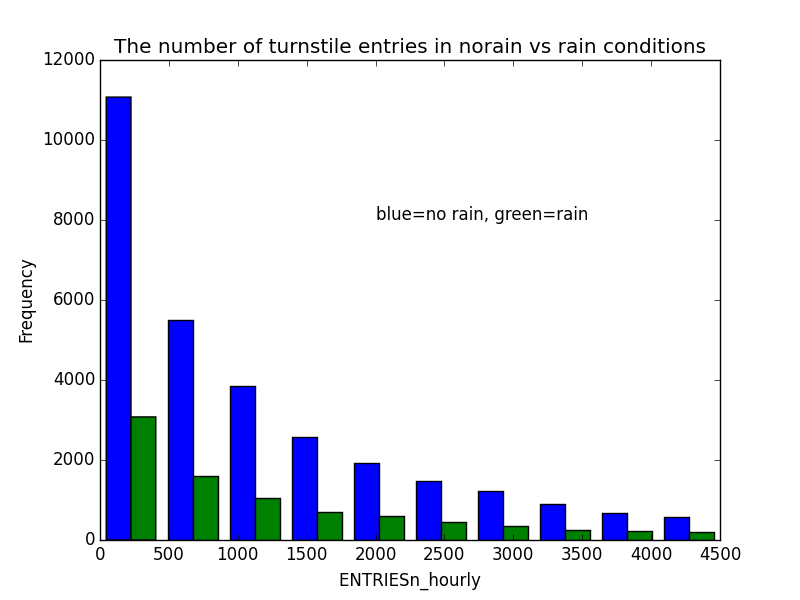
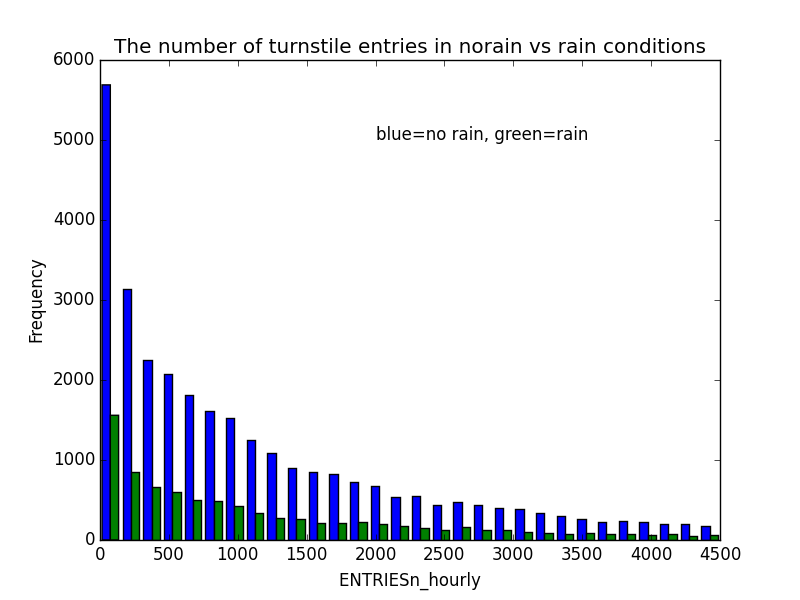
Update p2 files

diff --git a/P2/project2.html b/P2/project2.html
@@ -1,5 +1,5 @@
 <!DOCTYPE html>
-<!-- saved from url=(0078)file:///home/ger/Downloads/Analyzing%20the%20NYC%20Subway%20Dataset%20(3).html -->
+<!-- saved from url=(0085)file:///home/ger/admin/freelance/Courses/dataanalyst/data-analyst-nd/P2/project2.html -->
 <html><head><meta http-equiv="Content-Type" content="text/html; charset=UTF-8">
 
 <meta charset="utf-8">
@@ -146,7 +146,11 @@ div#notebook {
 
 <!-- Loading mathjax macro -->
 <!-- Load mathjax -->
-    <script src="./project2_files/MathJax.js"></script>
+    <script src="./project2_files/MathJax.js"></script><style type="text/css">.MathJax_Preview {color: #888}
+#MathJax_Message {position: fixed; left: 1em; bottom: 1.5em; background-color: #E6E6E6; border: 1px solid #959595; margin: 0px; padding: 2px 8px; z-index: 102; color: black; font-size: 80%; width: auto; white-space: nowrap}
+#MathJax_MSIE_Frame {position: absolute; top: 0; left: 0; width: 0px; z-index: 101; border: 0px; margin: 0px; padding: 0px}
+.MathJax_Error {color: #CC0000; font-style: italic}
+</style>
     <!-- MathJax configuration -->
     <script type="text/x-mathjax-config;executed=true">
     MathJax.Hub.Config({
@@ -248,7 +252,7 @@ div#notebook {
 .MJXc-scale9 {-webkit-transform: scaleX(.9); -moz-transform: scaleX(.9); -ms-transform: scaleX(.9); -o-transform: scaleX(.9); transform: scaleX(.9)}
 .MathJax_CHTML .noError {vertical-align: ; font-size: 90%; text-align: left; color: black; padding: 1px 3px; border: 1px solid}
 </style></head>
-<body><div id="MathJax_Message" style="display: none;"></div>
+<body><div id="MathJax_Message" style="display: none;"></div><div id="MathJax_Message" style="display: none;"></div>
   <div tabindex="-1" id="notebook" class="border-box-sizing">
     <div class="container" id="notebook-container">
 
@@ -257,16 +261,16 @@ div#notebook {
 </div>
 <div class="inner_cell">
 <div class="text_cell_render border-box-sizing rendered_html">
-<h2 id="Background-Information">Background Information<a class="anchor-link" href="file:///home/ger/Downloads/Analyzing%20the%20NYC%20Subway%20Dataset%20(3).html#Background-Information">¶</a></h2><p>In this project, we look at the NYC Subway data and figure out if more people ride the subway when it is raining versus when it is not raining.
+<h1 id="Analyzing-the-NYC-Subway-Dataset">Analyzing the NYC Subway Dataset<a class="anchor-link" href="file:///home/ger/Downloads/Analyzing%20the%20NYC%20Subway%20Dataset%20(4).html#Analyzing-the-NYC-Subway-Dataset">¶</a></h1><h2 id="Background-Information">Background Information<a class="anchor-link" href="file:///home/ger/Downloads/Analyzing%20the%20NYC%20Subway%20Dataset%20(4).html#Background-Information">¶</a></h2><p>In this project, we look at the NYC Subway data and figure out if more people ride the subway when it is raining versus when it is not raining.
 The dataset that is available contains data about turnstiles at different stations as well as weather conditions.</p>
-<h2 id="Statistical-Test">Statistical Test<a class="anchor-link" href="file:///home/ger/Downloads/Analyzing%20the%20NYC%20Subway%20Dataset%20(3).html#Statistical-Test">¶</a></h2><h3 id="Independent,-dependent-variables">Independent, dependent variables<a class="anchor-link" href="file:///home/ger/Downloads/Analyzing%20the%20NYC%20Subway%20Dataset%20(3).html#Independent,-dependent-variables">¶</a></h3><p>First, let's see what kind of data is in the dataset by exploring the column names.</p>
+<h2 id="Statistical-Test">Statistical Test<a class="anchor-link" href="file:///home/ger/Downloads/Analyzing%20the%20NYC%20Subway%20Dataset%20(4).html#Statistical-Test">¶</a></h2><h3 id="Independent,-dependent-variables">Independent, dependent variables<a class="anchor-link" href="file:///home/ger/Downloads/Analyzing%20the%20NYC%20Subway%20Dataset%20(4).html#Independent,-dependent-variables">¶</a></h3><p>First, let's see what kind of data is in the dataset by exploring the column names.</p>
 
 </div>
 </div>
 </div>
 <div class="cell border-box-sizing code_cell rendered">
 <div class="input">
-<div class="prompt input_prompt">In&nbsp;[1]:</div>
+<div class="prompt input_prompt">In&nbsp;[2]:</div>
 <div class="inner_cell">
     <div class="input_area">
 <div class=" highlight hl-ipython2"><pre><span class="kn">import</span> <span class="nn">pandas</span> <span class="kn">as</span> <span class="nn">pd</span>
@@ -303,27 +307,28 @@ The dataset that is available contains data about turnstiles at different statio
 How to measure if the subway is used more? Well, the data contains the number of entries at some units where a unit is a data collector of multiple turnstiles. ENTRIESn is the reading of cummulative turnstile entries from the remote unit and ENTRIESn_hourly indicates the difference in ENTRIES from the previous REGULAR reading. It seems like ENTRIESn_hourly is a good measure of how many people will use the subway.</p>
 <p>Therefore, the independent variable is the rain. It can either be a 0 (no rain) or 1 (rain)
 The dependent variable is the the number of entries since the last reading (ENTRIESn_hourly)</p>
-<h3 id="Hypothesis-and-chosen-test">Hypothesis and chosen test<a class="anchor-link" href="file:///home/ger/Downloads/Analyzing%20the%20NYC%20Subway%20Dataset%20(3).html#Hypothesis-and-chosen-test">¶</a></h3><p>The data that is provided is a sample. With the hypothesis tests we want to explore if we can conclude that the subway is used more when it is raining. 
+<h3 id="Hypothesis-and-chosen-test">Hypothesis and chosen test<a class="anchor-link" href="file:///home/ger/Downloads/Analyzing%20the%20NYC%20Subway%20Dataset%20(4).html#Hypothesis-and-chosen-test">¶</a></h3><p>The data that is provided is a sample. With the hypothesis tests we want to explore if we can conclude that the subway is used more when it is raining. 
 Let μR and μN respectively be the population means for ENTRIESn_hourly when it is not raining and when it is raining. Let H0 and Ha respectively be the 0 and alternative hypothesis. The hypotheses can be written as:</p>
 <p>H0 : μR = μN</p>
 <p>Ha : μR &gt; μN</p>
 <p>When comparing means of populations, multiple tests can be used. A t-test or z-test can be used if the data is assumed to be normally distributed. 
 However, the data from our sample is not normally distributed if we look at the plot below. Mann–Whitney´s U test is a nonparametrict test that can be used if we don't assume that the data follows a certain distribution. Because we don´ t assume any underlying distribution this test will be used. The test will be one tailed, because it is only interesting to know if <strong>more</strong> people use the subway when it is raining. The p critical value is 0.05, since this is quite common.</p>
-<p><img src="plots/histogram_rain_norain.png" alt="Histogram of rain vs norain values"></p>
-<h3 id="Results-from-executing-the-test">Results from executing the test<a class="anchor-link" href="file:///home/ger/Downloads/Analyzing%20the%20NYC%20Subway%20Dataset%20(3).html#Results-from-executing-the-test">¶</a></h3><p>Below the results from the test can be found.</p>
+<p><img src="./project2_files/histogram_rain_norain.png" alt="Histogram of rain vs norain values"></p>
+<h3 id="Results-from-executing-the-test">Results from executing the test<a class="anchor-link" href="file:///home/ger/Downloads/Analyzing%20the%20NYC%20Subway%20Dataset%20(4).html#Results-from-executing-the-test">¶</a></h3><p>Below the results from the test can be found.</p>
 
 </div>
 </div>
 </div>
 <div class="cell border-box-sizing code_cell rendered">
 <div class="input">
-<div class="prompt input_prompt">In&nbsp;[2]:</div>
+<div class="prompt input_prompt">In&nbsp;[13]:</div>
 <div class="inner_cell">
     <div class="input_area">
 <div class=" highlight hl-ipython2"><pre><span class="kn">import</span> <span class="nn">numpy</span> <span class="kn">as</span> <span class="nn">np</span>
 <span class="kn">import</span> <span class="nn">scipy.stats</span>
 <span class="n">rain</span> <span class="o">=</span> <span class="n">turnstile_weather</span><span class="p">[</span><span class="s">'ENTRIESn_hourly'</span><span class="p">][</span><span class="n">turnstile_weather</span><span class="p">[</span><span class="s">'rain'</span><span class="p">]</span> <span class="o">==</span> <span class="mi">1</span><span class="p">]</span>
 <span class="n">norain</span> <span class="o">=</span> <span class="n">turnstile_weather</span><span class="p">[</span><span class="s">'ENTRIESn_hourly'</span><span class="p">][</span><span class="n">turnstile_weather</span><span class="p">[</span><span class="s">'rain'</span><span class="p">]</span> <span class="o">==</span> <span class="mi">0</span><span class="p">]</span>
+<span class="k">print</span> <span class="s">"length norain df vs rain df:"</span><span class="p">,</span> <span class="nb">len</span><span class="p">(</span><span class="n">norain</span><span class="p">),</span> <span class="nb">len</span><span class="p">(</span><span class="n">rain</span><span class="p">)</span>
 <span class="k">print</span> <span class="s">"Norain mean + std:"</span><span class="p">,</span> <span class="n">np</span><span class="o">.</span><span class="n">mean</span><span class="p">(</span><span class="n">norain</span><span class="p">),</span> <span class="n">np</span><span class="o">.</span><span class="n">std</span><span class="p">(</span><span class="n">norain</span><span class="p">)</span>
 <span class="k">print</span> <span class="s">"Rain mean + std:"</span><span class="p">,</span> <span class="n">np</span><span class="o">.</span><span class="n">mean</span><span class="p">(</span><span class="n">rain</span><span class="p">),</span> <span class="n">np</span><span class="o">.</span><span class="n">std</span><span class="p">(</span><span class="n">rain</span><span class="p">)</span>
 <span class="n">U</span><span class="p">,</span> <span class="n">p</span> <span class="o">=</span> <span class="n">scipy</span><span class="o">.</span><span class="n">stats</span><span class="o">.</span><span class="n">mannwhitneyu</span><span class="p">(</span><span class="n">rain</span><span class="p">,</span> <span class="n">norain</span><span class="p">)</span>
@@ -341,7 +346,8 @@ However, the data from our sample is not normally distributed if we look at the 
 
 <div class="output_area"><div class="prompt"></div>
 <div class="output_subarea output_stream output_stdout output_text">
-<pre>Norain mean + std: 1845.53943866 2878.72731433
+<pre>length norain df vs rain df: 33064 9585
+Norain mean + std: 1845.53943866 2878.72731433
 Rain mean + std: 2028.19603547 3189.26699226
 U-statistic: 153635120.5
 p-value: 2.74106957124e-06
@@ -359,27 +365,25 @@ p-value: 2.74106957124e-06
 <div class="inner_cell">
 <div class="text_cell_render border-box-sizing rendered_html">
 <p>The mannwhitney u test is per default one-tailed.  As can be seen, the p-value is a lot smaller than the p critical value of 0.05. Therefore it is very unlikely that the population means are equal, so the alternative hypothesis applies: more people ride the subway when it is raining.</p>
-<h2 id="Linear-Regression">Linear Regression<a class="anchor-link" href="file:///home/ger/Downloads/Analyzing%20the%20NYC%20Subway%20Dataset%20(3).html#Linear-Regression">¶</a></h2><p>Machine learning is a branch of artificial intelligence focused on constructing systems that learn from large amounts of data to make predictions.
+<h2 id="Linear-Regression">Linear Regression<a class="anchor-link" href="file:///home/ger/Downloads/Analyzing%20the%20NYC%20Subway%20Dataset%20(4).html#Linear-Regression">¶</a></h2><p>Machine learning is a branch of artificial intelligence focused on constructing systems that learn from large amounts of data to make predictions.
 Linear Regression is one of the most used models in machine learning.</p>
-<h3 id="Regression-model">Regression model<a class="anchor-link" href="file:///home/ger/Downloads/Analyzing%20the%20NYC%20Subway%20Dataset%20(3).html#Regression-model">¶</a></h3><p>To create a lineair regression model I will use the Ordinary Least Squares (OLS) from Statsmodels.</p>
-<p>2.2 What features (input variables) did you use in your model? Did you use any dummy variables as part of your features?</p>
-<h3 id="Features">Features<a class="anchor-link" href="file:///home/ger/Downloads/Analyzing%20the%20NYC%20Subway%20Dataset%20(3).html#Features">¶</a></h3><p>I have used the following features in the regression model</p>
+<h3 id="Regression-model">Regression model<a class="anchor-link" href="file:///home/ger/Downloads/Analyzing%20the%20NYC%20Subway%20Dataset%20(4).html#Regression-model">¶</a></h3><p>To create a lineair regression model I will use the Ordinary Least Squares (OLS) from Statsmodels.</p>
+<h3 id="Features">Features<a class="anchor-link" href="file:///home/ger/Downloads/Analyzing%20the%20NYC%20Subway%20Dataset%20(4).html#Features">¶</a></h3><p>I have used the following features in the regression model</p>
 <ul>
-<li>rain: because in the statistical test, it is clear that rain matters</li>
-<li>hour: because there are probably more people taking the subway in peak hours</li>
-<li>meantempi: because there are probably less travelers when it is very cold or hot</li>
-<li>fog: </li>
-<li>weekday</li>
+<li>rain: because in the statistical test, it is clear that rain matters.</li>
+<li>hour: because there are probably more people taking the subway in peak hours.</li>
+<li>meantempi: because there are probably less travelers when it is very cold or hot.</li>
+<li>weekday: because I think some days are more populair to work than others.</li>
 <li>UNIT (dummy variable): because when I used this, it drastically improved my R2 value.</li>
 </ul>
-<h3 id="Parameters-of-non-dummy-features-and-R-squared">Parameters of non-dummy features and R-squared<a class="anchor-link" href="file:///home/ger/Downloads/Analyzing%20the%20NYC%20Subway%20Dataset%20(3).html#Parameters-of-non-dummy-features-and-R-squared">¶</a></h3><p>2.5 What is your model’s R2 (coefficients of determination) value?</p>
+<h3 id="Parameters-of-non-dummy-features-and-R-squared">Parameters of non-dummy features and R-squared<a class="anchor-link" href="file:///home/ger/Downloads/Analyzing%20the%20NYC%20Subway%20Dataset%20(4).html#Parameters-of-non-dummy-features-and-R-squared">¶</a></h3><p>below the parameters of the non-dummy features and R-squared are shown</p>
 
 </div>
 </div>
 </div>
 <div class="cell border-box-sizing code_cell rendered">
 <div class="input">
-<div class="prompt input_prompt">In&nbsp;[4]:</div>
+<div class="prompt input_prompt">In&nbsp;[11]:</div>
 <div class="inner_cell">
     <div class="input_area">
 <div class=" highlight hl-ipython2"><pre><span class="kn">import</span> <span class="nn">matplotlib.pyplot</span> <span class="kn">as</span> <span class="nn">plt</span>
@@ -416,6 +420,10 @@ Linear Regression is one of the most used models in machine learning.</p>
 <span class="n">values</span> <span class="o">=</span> <span class="n">turnstile_weather</span><span class="p">[</span><span class="s">'ENTRIESn_hourly'</span><span class="p">]</span>
 <span class="n">intercept</span><span class="p">,</span> <span class="n">params</span> <span class="o">=</span> <span class="n">linear_regression</span><span class="p">(</span><span class="n">features</span><span class="p">,</span> <span class="n">values</span><span class="p">)</span>
 <span class="n">predictions</span> <span class="o">=</span> <span class="n">intercept</span> <span class="o">+</span> <span class="n">np</span><span class="o">.</span><span class="n">dot</span><span class="p">(</span><span class="n">features</span><span class="p">,</span> <span class="n">params</span><span class="p">)</span>
+<span class="k">print</span> <span class="s">"param-rain"</span><span class="p">,</span> <span class="n">params</span><span class="p">[</span><span class="s">'rain'</span><span class="p">]</span>
+<span class="k">print</span> <span class="s">"param-hour"</span><span class="p">,</span> <span class="n">params</span><span class="p">[</span><span class="s">'hour'</span><span class="p">]</span>
+<span class="k">print</span> <span class="s">"param-meantempi"</span><span class="p">,</span> <span class="n">params</span><span class="p">[</span><span class="s">'meantempi'</span><span class="p">]</span>
+<span class="k">print</span> <span class="s">"param-weekday"</span><span class="p">,</span> <span class="n">params</span><span class="p">[</span><span class="s">'weekday'</span><span class="p">]</span>
 <span class="k">print</span> <span class="s">"r-squared:"</span><span class="p">,</span> <span class="n">compute_r_squared</span><span class="p">(</span><span class="n">values</span><span class="p">,</span> <span class="n">predictions</span><span class="p">)</span>
 </pre></div>
 
@@ -429,7 +437,11 @@ Linear Regression is one of the most used models in machine learning.</p>
 
 <div class="output_area"><div class="prompt"></div>
 <div class="output_subarea output_stream output_stdout output_text">
-<pre> r-squared: 0.482340215273
+<pre>param-rain -38.034135646
+param-hour 123.403811602
+param-meantempi -13.8580644847
+param-weekday 982.860016244
+r-squared: 0.482340215273
 </pre>
 </div>
 </div>
@@ -443,8 +455,27 @@ Linear Regression is one of the most used models in machine learning.</p>
 </div>
 <div class="inner_cell">
 <div class="text_cell_render border-box-sizing rendered_html">
-<p>2.6 What does this R2 value mean for the goodness of fit for your regression model? Do you think this linear model to predict ridership is appropriate for this dataset, given this R2  value?</p>
-<h2 id="Visualization">Visualization<a class="anchor-link" href="file:///home/ger/Downloads/Analyzing%20the%20NYC%20Subway%20Dataset%20(3).html#Visualization">¶</a></h2><h2 id="Conclusion">Conclusion<a class="anchor-link" href="file:///home/ger/Downloads/Analyzing%20the%20NYC%20Subway%20Dataset%20(3).html#Conclusion">¶</a></h2><h2 id="Reflection">Reflection<a class="anchor-link" href="file:///home/ger/Downloads/Analyzing%20the%20NYC%20Subway%20Dataset%20(3).html#Reflection">¶</a></h2>
+<p>The R2 value is about 0.48, so what does this mean? R2 is a measure of how well the data fits the regression model. The value of R2 is 1 for a perfect fit and 0 when there is no fit, so in this case the fit is reasonable.</p>
+<h2 id="Visualization">Visualization<a class="anchor-link" href="file:///home/ger/Downloads/Analyzing%20the%20NYC%20Subway%20Dataset%20(4).html#Visualization">¶</a></h2><p>Below a visualization can be found about the ridership by time of day. On the x-axis the hour is give and on the y-axis the number of entries.</p>
+<p><img src="./project2_files/number_of_entries_per_hour.png" alt="Histogram of rain vs norain values"></p>
+
+</div>
+</div>
+</div>
+<div class="cell border-box-sizing text_cell rendered">
+<div class="prompt input_prompt">
+</div>
+<div class="inner_cell">
+<div class="text_cell_render border-box-sizing rendered_html">
+<h2 id="Conclusion">Conclusion<a class="anchor-link" href="file:///home/ger/Downloads/Analyzing%20the%20NYC%20Subway%20Dataset%20(4).html#Conclusion">¶</a></h2><h4 id="Do-more-people-ride-the-NYC-subway-when-it-is-raining-or-when-it-is-not-raining?">Do more people ride the NYC subway when it is raining or when it is not raining?<a class="anchor-link" href="file:///home/ger/Downloads/Analyzing%20the%20NYC%20Subway%20Dataset%20(4).html#Do-more-people-ride-the-NYC-subway-when-it-is-raining-or-when-it-is-not-raining?">¶</a></h4><p>From the results obtained from the statistical test and lineair regression, we can say in general that more people ride the NYC subway when it is raining. However, rain is not a very good predictor.</p>
+<p>In the statistical test, the conclusion is that our sample supports the alternative hypothesis, the population mean for rain is greater that for non rain.</p>
+<p>In our lineair regression model, the influence of the rain on the ouput is negative. I have also tried to leave out the feature rain and it almost didn't change the R2 value. The purpose of the regression model is to be able to predict the outcome based on certain features. However, these features influence each other. If one is left out, it will change the param values of the other features. The dummy variable UNIT has a big influence on R2. This leads to the conclusion that UNIT is a good predictor, but rain isn't.</p>
+<h2 id="Reflection">Reflection<a class="anchor-link" href="file:///home/ger/Downloads/Analyzing%20the%20NYC%20Subway%20Dataset%20(4).html#Reflection">¶</a></h2><h4 id="Shortcomings">Shortcomings<a class="anchor-link" href="file:///home/ger/Downloads/Analyzing%20the%20NYC%20Subway%20Dataset%20(4).html#Shortcomings">¶</a></h4><p>There are some shortcomings in my analysis.</p>
+<ul>
+<li>dataset: the dataset contains a lot more rows for non-rain than for rain. It would be ideal to have equal number of rows for both cases.</li>
+<li>regression model: the chosen regression model OLS (ordinary least squares) is quite simplistic and has some drawbacks. It is sensitive for outliers and as seen in the figure of entries per hour, there are some outliers. Next to this, OLS performs bad when features are put into the model, that have a dependence between them. </li>
+</ul>
+
 </div>
 </div>
 </div>

diff --git a/P2/project2.py b/P2/project2.py
@@ -12,6 +12,7 @@ import pandasql as pdsql
 import matplotlib.pyplot as plt
 import scipy.stats
 import statsmodels.api as sm
+from ggplot import *
 
 def linear_regression(features, values):
     """
@@ -45,18 +46,21 @@ print turnstile_weather['rain'].describe()
 rain = turnstile_weather['ENTRIESn_hourly'][turnstile_weather['rain'] == 1]
 norain = turnstile_weather['ENTRIESn_hourly'][turnstile_weather['rain'] == 0]
 
-print "rain-mean:", np.mean(rain_data)
-print "rain-std:",np.std(rain_data)
-print "norain-mean:",np.mean(norain_data)
-print "norain-mean:",np.std(norain_data)
+print len(rain)
+print len(norain)
+
+#print "rain-mean:", np.mean(rain_data)
+#print "rain-std:",np.std(rain_data)
+#print "norain-mean:",np.mean(norain_data)
+#print "norain-mean:",np.std(norain_data)
 
 plt.figure()
 plt.xlabel('ENTRIESn_hourly ')
 plt.ylabel('Frequency')
 plt.title('The number of turnstile entries in norain vs rain conditions')
-plt.text(2000, 8000, r'blue=no rain, green=rain')
+plt.text(2000, 5000, r'blue=no rain, green=rain')
 x = [norain, rain]
-plt.hist(x, range=(0, 4500))
+plt.hist(x, range=(0, 4500), bins=30)
 
 U, p = scipy.stats.mannwhitneyu(rain, norain)
 print "U-statistic:", U
@@ -71,16 +75,18 @@ features = turnstile_weather[['rain', 'hour', 'meantempi', 'weekday']]
 dummy_units = pandas.get_dummies(turnstile_weather['UNIT'], prefix='unit')
 features = features.join(dummy_units)
 # Values
-values = turnstile_weather['ENTRIESn_hourly']
+#values = turnstile_weather['ENTRIESn_hourly']
 # Perform linear regression
-intercept, params = linear_regression(features, values)
+#intercept, params = linear_regression(features, values)
 
 #print "intercept, params", intercept, params
-predictions = intercept + np.dot(features, params)
-print "predictions:", predictions
+#predictions = intercept + np.dot(features, params)
+#print "predictions:", predictions
+#print "r-squared:", compute_r_squared(values, predictions)
 
-print "r-squared:", compute_r_squared(values, predictions)
-
+plot = ggplot(turnstile_weather, aes(x='hour', y='ENTRIESn_hourly', color='rain')) + \
+    geom_point() + xlab('hour of day') + ylab('Number of entries') + ggtitle('Number of entries per hour')
+print plot
 
 
 
